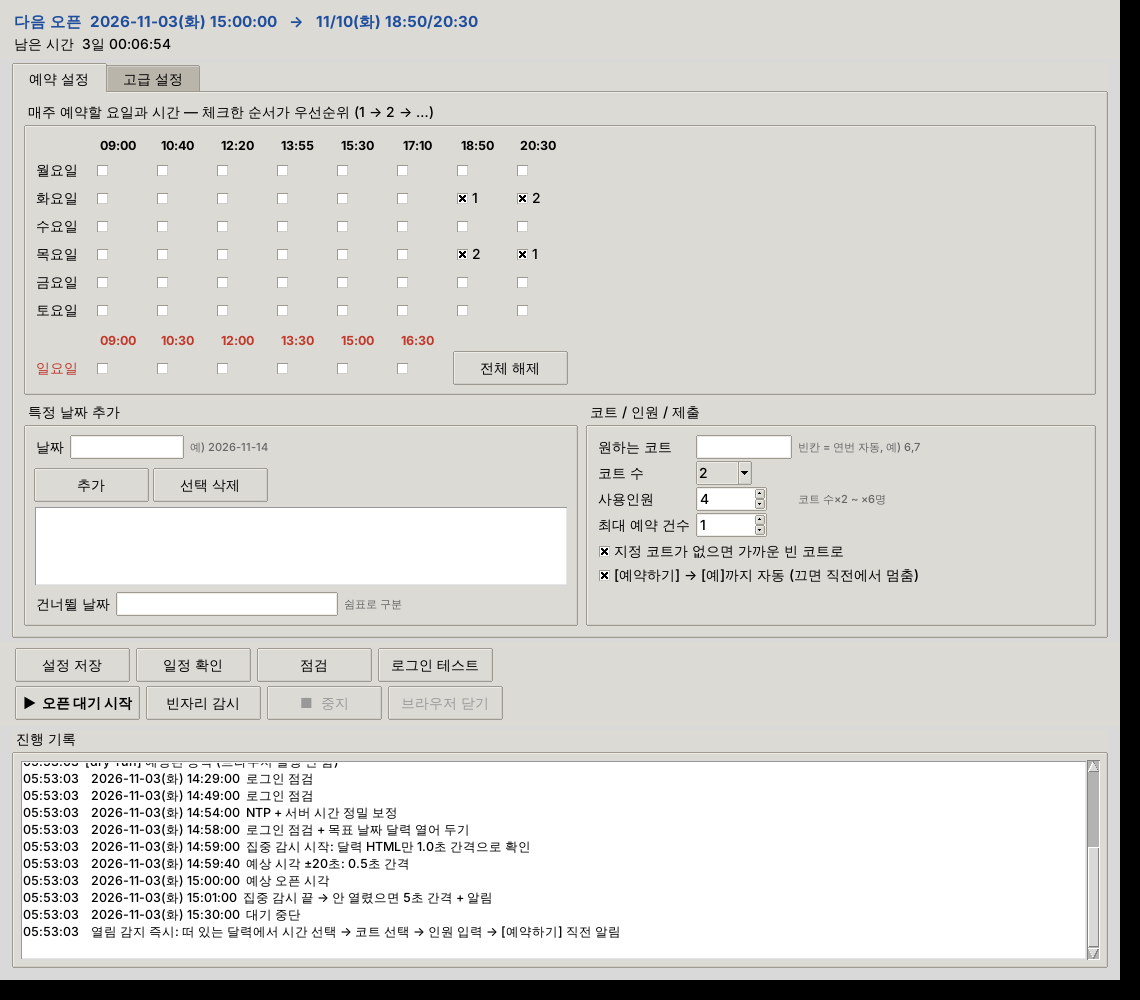
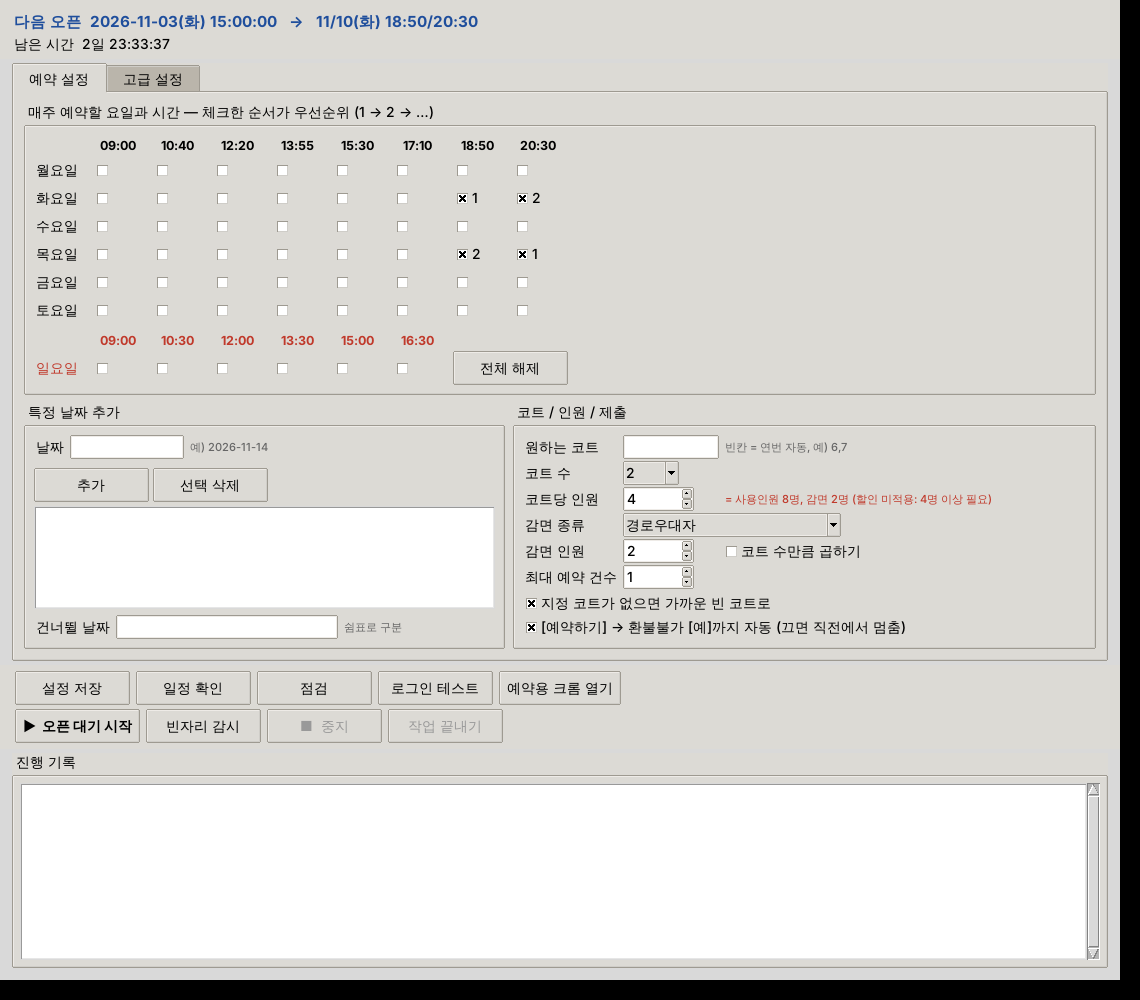
auc_reserve: headcount as courts x people-per-court plus reduction count
- applicant.people_per_court (default 4) sets userCnt from the picked
  court count; reduction {type, count, per_court} fills reduction1..7
- turbo and regular paths both fill them before 예약하기 -> 예
- GUI shows the resulting headcount and whether the site's discount rule
  (reductions >= half of users) will apply

Claude-Session: https://claude.ai/code/session_01Xek6Dm2fkyV4A9ATkhvND8

diff --git a/auc_reserve/gui.py b/auc_reserve/gui.py
@@ -228,21 +228,51 @@ class App:
         ttk.Label(ct, text="코트 수").grid(row=1, column=0, sticky="w", pady=3)
         ttk.Combobox(ct, textvariable=self.court_count, values=["1", "2"], width=4, state="readonly").grid(
             row=1, column=1, sticky="w", padx=4)
-        ttk.Label(ct, text="사용인원").grid(row=2, column=0, sticky="w")
-        ttk.Spinbox(ct, textvariable=self.people, from_=2, to=12, width=5).grid(row=2, column=1, sticky="w",
-                                                                              padx=4)
-        ttk.Label(ct, text="코트 수×2 ~ ×6명", foreground="#666", font=small).grid(row=2, column=2, sticky="w")
-        ttk.Label(ct, text="최대 예약 건수").grid(row=3, column=0, sticky="w", pady=3)
-        ttk.Spinbox(ct, textvariable=self.max_per, from_=1, to=2, width=5).grid(row=3, column=1, sticky="w",
+        ttk.Label(ct, text="코트당 인원").grid(row=2, column=0, sticky="w")
+        ttk.Spinbox(ct, textvariable=self.people, from_=2, to=6, width=5,
+                    command=self.update_people_hint).grid(row=2, column=1, sticky="w", padx=4)
+        self.people_hint = ttk.Label(ct, text="", foreground="#666", font=small)
+        self.people_hint.grid(row=2, column=2, sticky="w")
+        ttk.Label(ct, text="감면 종류").grid(row=3, column=0, sticky="w", pady=3)
+        self.red_type = tk.StringVar(value="감면 없음")
+        ttk.Combobox(ct, textvariable=self.red_type, state="readonly", width=22,
+                     values=["감면 없음"] + [n for _, n in core.REDUCTION_TYPES]).grid(
+            row=3, column=1, columnspan=2, sticky="w", padx=4)
+        ttk.Label(ct, text="감면 인원").grid(row=4, column=0, sticky="w")
+        self.red_count = tk.StringVar(value="2")
+        self.red_per_court = tk.BooleanVar(value=False)
+        ttk.Spinbox(ct, textvariable=self.red_count, from_=0, to=12, width=5,
+                    command=self.update_people_hint).grid(row=4, column=1, sticky="w", padx=4)
+        ttk.Checkbutton(ct, text="코트 수만큼 곱하기", variable=self.red_per_court,
+                        command=self.update_people_hint).grid(row=4, column=2, sticky="w")
+        ttk.Label(ct, text="최대 예약 건수").grid(row=5, column=0, sticky="w", pady=3)
+        ttk.Spinbox(ct, textvariable=self.max_per, from_=1, to=2, width=5).grid(row=5, column=1, sticky="w",
                                                                               padx=4)
         ttk.Checkbutton(ct, text="지정 코트가 없으면 가까운 빈 코트로", variable=self.fallback).grid(
-            row=4, column=0, columnspan=3, sticky="w")
-        ttk.Checkbutton(ct, text="[예약하기] → [예]까지 자동 (끄면 직전에서 멈춤)", variable=self.auto_submit).grid(
-            row=5, column=0, columnspan=3, sticky="w")
+            row=6, column=0, columnspan=3, sticky="w")
+        ttk.Checkbutton(ct, text="[예약하기] → 환불불가 [예]까지 자동 (끄면 직전에서 멈춤)",
+                        variable=self.auto_submit).grid(row=7, column=0, columnspan=3, sticky="w")
+        self.court_count.trace_add("write", lambda *_: self.update_people_hint())
 
         f.columnconfigure(0, weight=1)
         f.columnconfigure(1, weight=1)
         return f
+
+    def update_people_hint(self):
+        """코트 수 × 코트당 인원, 감면 인원으로 실제 입력될 값과 할인 적용 여부를 미리 보여 줌."""
+        if not hasattr(self, "people_hint"):
+            return
+        try:
+            n, ppc = int(self.court_count.get()), int(self.people.get())
+            rc = int(self.red_count.get() or 0) * (n if self.red_per_court.get() else 1)
+        except ValueError:
+            return
+        total = n * ppc
+        msg = f"= 사용인원 {total}명"
+        if self.red_type.get() != "감면 없음" and rc > 0:
+            ok = total / 2 <= rc
+            msg += f", 감면 {min(rc, total)}명 " + ("(할인 적용)" if ok else f"(할인 미적용: {total // 2 + total % 2}명 이상 필요)")
+        self.people_hint.configure(text=msg, foreground="#1e8449" if "미적용" not in msg else "#c0392b")
 
     # ── 특정 날짜: 날짜 입력 → 그 요일 시간표 체크 → 추가 ──
     def on_ex_date(self):
@@ -355,7 +385,17 @@ class App:
         self.skip_var.set(", ".join(c.get("skip_dates", [])))
         self.courts_var.set(",".join(str(x) for x in c.get("courts", [])))
         self.court_count.set(str(c.get("court_count", 2)))
-        self.people.set(str(c.get("applicant", {}).get("사용인원", 4)))
+        a = c.get("applicant", {})
+        if "people_per_court" in a:
+            self.people.set(str(a["people_per_court"]))
+        else:   # 예전 설정(사용인원 총수)을 코트당 인원으로 환산
+            self.people.set(str(max(2, int(a.get("사용인원", 4)) // max(1, int(c.get("court_count", 1))))))
+        red = c.get("reduction", {})
+        names = dict(core.REDUCTION_TYPES)
+        self.red_type.set(names.get(red.get("type", ""), "감면 없음"))
+        self.red_count.set(str(red.get("count", 2)))
+        self.red_per_court.set(bool(red.get("per_court", False)))
+        self.update_people_hint()
         self.fallback.set(bool(c.get("court_fallback_any", True)))
         self.auto_submit.set(bool(c.get("auto_submit", True)))
         self.max_per.set(str(c.get("max_per_week", 1)))
@@ -395,11 +435,17 @@ class App:
             raise ValueError("코트 번호는 1~12 숫자를 쉼표로 구분해 입력하세요. 예) 6,7")
         c["courts"] = [int(x) for x in courts]
         cnt = int(self.court_count.get())
-        people = int(self.people.get())
-        if not cnt * 2 <= people <= cnt * 6:
-            raise ValueError(f"코트 {cnt}면의 사용인원은 {cnt * 2}~{cnt * 6}명입니다.")
+        ppc = int(self.people.get())
+        if not 2 <= ppc <= 6:
+            raise ValueError("코트당 인원은 2~6명입니다.")
         c["court_count"] = cnt
-        c.setdefault("applicant", {})["사용인원"] = people
+        c["applicant"] = {"people_per_court": ppc}
+        codes = {n: k for k, n in core.REDUCTION_TYPES}
+        rtype = codes.get(self.red_type.get(), "")
+        rcount = int(self.red_count.get() or 0)
+        if rtype and rcount <= 0:
+            raise ValueError("감면 인원을 1명 이상 입력하거나 감면 종류를 '감면 없음'으로 두세요.")
+        c["reduction"] = {"type": rtype, "count": rcount, "per_court": self.red_per_court.get()}
         c["court_fallback_any"] = self.fallback.get()
         c["auto_submit"] = self.auto_submit.get()
         c["max_per_week"] = int(self.max_per.get())

diff --git a/auc_reserve/main.py b/auc_reserve/main.py
@@ -171,6 +171,28 @@ def pick_slot(slots, times):
     return None
 
 
+REDUCTION_TYPES = [
+    ("reduction1", "국가유공자"), ("reduction2", "장애인"), ("reduction3", "경로우대자"),
+    ("reduction4", "안양시 다자녀"), ("reduction5", "우수자원봉사자"),
+    ("reduction6", "장기 및 신체조직 기증자"), ("reduction7", "군·경·소(안양거주/재직)"),
+]
+
+
+def form_values(cfg, courts_n):
+    """사용인원과 감면 인원 계산. 반환: (사용인원, {"reduction3": 2} 같은 감면 입력값)."""
+    courts_n = max(1, courts_n)
+    a = cfg.get("applicant", {})
+    ppc = a.get("people_per_court")
+    cnt = courts_n * int(ppc) if ppc else int(a.get("사용인원", courts_n * 2))
+    cnt = max(courts_n * 2, min(cnt, courts_n * 6))          # 사이트 제한: 코트당 2~6명
+    red = cfg.get("reduction", {})
+    rtype, rc = red.get("type", ""), int(red.get("count", 0) or 0)
+    if red.get("per_court"):
+        rc *= courts_n
+    rc = min(rc, cnt)                                        # 감면 인원은 사용인원 이하
+    return cnt, ({rtype: rc} if rtype and rc > 0 else {})
+
+
 def find_chrome(configured=""):
     """설치된 chrome.exe 경로 찾기."""
     cands = [configured, os.environ.get("AUC_BROWSER_PATH", "")]
@@ -674,25 +696,20 @@ class Bot:
 
     # ── 신청서 → 최종 직전 ──
     def fill_applicant(self):
-        for key, sel in S.APPLICANT_FIELDS.items():
-            val = self.cfg.get("applicant", {}).get(key)
-            if val in (None, "") or not self.count(sel):
-                continue
-            el = self.page.locator(sel).first
-            try:
-                tag = el.evaluate("e => e.tagName").lower()
-                if tag == "select":
-                    try:
-                        el.select_option(label=str(val))
-                    except Exception:  # noqa: BLE001
-                        el.select_option(value=str(val))
-                else:
-                    el.fill(str(val))
-                log.info("신청서 입력: %s", key)
-                if S.AFTER_FILL_JS:
-                    self.page.evaluate(S.AFTER_FILL_JS)
-            except Exception as e:  # noqa: BLE001
-                log.warning("신청서 입력 실패(%s): %s", key, e)
+        """사용인원 화면이면 인원(코트 수 × 코트당 인원)과 감면 인원을 입력하고 요금을 다시 계산."""
+        if not self.count(S.PEOPLE_INPUT):
+            return
+        n = len(self.picked_courts) or int(self.cfg.get("court_count", 1))
+        cnt, reds = form_values(self.cfg, n)
+        try:
+            self.page.locator(S.PEOPLE_INPUT).first.fill(str(cnt))
+            for name, v in reds.items():
+                self.page.locator(f'input[name="{name}"]').first.fill(str(v))
+            if S.AFTER_FILL_JS:
+                self.page.evaluate(S.AFTER_FILL_JS)
+            log.info("사용인원 %d명, 감면 %s", cnt, reds or "없음")
+        except Exception as e:  # noqa: BLE001
+            log.warning("인원 입력 실패: %s", e)
 
     def select_courts(self):
         """코트 선택 화면이면 규칙대로 체크. 반환: 선택한 코트 번호 목록 (화면이 아니면 None)."""
@@ -872,13 +889,13 @@ class Bot:
         label += " 코트 " + ",".join(f"{n}번" for n in pick)
         # ③ 인원 입력 (+ [예약하기] → [예])
         submit = bool(self.cfg.get("auto_submit"))
-        cnt = int(self.cfg.get("applicant", {}).get("사용인원", want * 2))
+        cnt, reds = form_values(self.cfg, len(pick))
         self.last_dialog = ""
         url = self.page.url
-        r = self._turbo_eval(S.TURBO_SUBMIT_JS, [cnt, submit, S.CONFIRM_EXPECT_TEXTS])
+        r = self._turbo_eval(S.TURBO_SUBMIT_JS, [cnt, submit, S.CONFIRM_EXPECT_TEXTS, reds])
         t3 = time.monotonic()
-        log.info("터보 소요: 시간선택 %.0fms / 코트 %.0fms / 제출 %.0fms (빈 코트 %s → %s)",
-                 (t1 - t0) * 1000, (t2 - t1) * 1000, (t3 - t2) * 1000, free, pick)
+        log.info("터보 소요: 시간선택 %.0fms / 코트 %.0fms / 제출 %.0fms (빈 코트 %s → %s, 인원 %d, 감면 %s)",
+                 (t1 - t0) * 1000, (t2 - t1) * 1000, (t3 - t2) * 1000, free, pick, cnt, reds or "없음")
         if not submit:
             if r == "filled":
                 self.n.alert(f"{label}, [예약하기] → [예]를 눌러주세요")

diff --git a/auc_reserve/site_selectors.py b/auc_reserve/site_selectors.py
@@ -51,10 +51,8 @@ SELECT_CONFIRM_TEXTS = ["등록하시겠습니까"]
 COURT_CHECKBOX = 'input[type="checkbox"][name="facilityNo"]'   # value = 코트 번호 1~12
 COURT_MAX = 2                                                   # 사이트 제한: 최대 2면
 
-# 2) 사용인원 화면: config.json applicant의 키 → 입력칸
-APPLICANT_FIELDS = {
-    "사용인원": "#userCnt",      # 코트 수 × 2 이상, × 6 이하
-}
+# 2) 사용인원 화면: 사용인원 #userCnt (코트 수 × 2 ~ × 6), 감면 인원 input[name=reduction1..7]
+PEOPLE_INPUT = "#userCnt"
 AFTER_FILL_JS = "typeof changePrice === 'function' && changePrice()"   # 요금 다시 계산
 AGREE_CHECKBOXES = 'input[type="checkbox"][name*="agree" i]'           # 이 사이트엔 없음
 
@@ -117,10 +115,15 @@ TURBO_COURT_JS = """([nos, nextText]) => {
   return 'ok';
 }"""
 # ③ 인원 입력 → (submit이면) [예약하기] → '환불 불가에 동의…' [예]
-TURBO_SUBMIT_JS = """async ([cnt, submit, expect]) => {
+TURBO_SUBMIT_JS = """async ([cnt, submit, expect, reds]) => {
   const u = document.querySelector('#userCnt');
   if (!u) return 'no-usercnt';
   u.value = String(cnt);
+  for (const [name, v] of Object.entries(reds || {})) {
+    const r = document.querySelector('input[name="' + name + '"]');
+    if (!r) return 'no-' + name;
+    r.value = String(v);
+  }
   if (typeof changePrice === 'function') changePrice();
   if (!submit) return 'filled';
   const btn = [...document.querySelectorAll('a.btn4')].find(a => a.textContent.includes('""" + SUBMIT_BTN_TEXT + """'));

diff --git a/auc_reserve/tests/test_courts.py b/auc_reserve/tests/test_courts.py
@@ -52,3 +52,28 @@ class PreferredMode(unittest.TestCase):
 
 if __name__ == "__main__":
     unittest.main()
+
+
+from main import form_values  # noqa: E402
+
+
+class FormValues(unittest.TestCase):
+    def test_people_per_court(self):
+        cfg = {"applicant": {"people_per_court": 4}, "reduction": {"type": "reduction3", "count": 2}}
+        self.assertEqual(form_values(cfg, 1), (4, {"reduction3": 2}))
+        self.assertEqual(form_values(cfg, 2), (8, {"reduction3": 2}))
+
+    def test_reduction_per_court(self):
+        cfg = {"applicant": {"people_per_court": 4},
+               "reduction": {"type": "reduction4", "count": 2, "per_court": True}}
+        self.assertEqual(form_values(cfg, 2), (8, {"reduction4": 4}))
+
+    def test_no_reduction_type(self):
+        cfg = {"applicant": {"people_per_court": 4}, "reduction": {"type": "", "count": 2}}
+        self.assertEqual(form_values(cfg, 1), (4, {}))
+
+    def test_limits(self):
+        self.assertEqual(form_values({"applicant": {"people_per_court": 9}}, 1)[0], 6)
+        self.assertEqual(form_values({"applicant": {"사용인원": 4}}, 2)[0], 4)
+        cfg = {"applicant": {"people_per_court": 2}, "reduction": {"type": "reduction1", "count": 5}}
+        self.assertEqual(form_values(cfg, 1), (2, {"reduction1": 2}))

diff --git a/auc_reserve/README.md b/auc_reserve/README.md
@@ -87,7 +87,7 @@ copy .env.example .env
 |---|---|---|
 | 1 | 달력에서 `가` 시간 클릭 → "…등록하시겠습니까?" 확인창 [예] | 스크립트 |
 | 2 | 코트 선택 (`reservationStep2`, 1~12번, 최대 2면) → [다음] | 스크립트 (`courts` 우선순위) |
-| 3 | 사용인원 입력 (`reservationStep2_2`) | 스크립트 (`applicant.사용인원`) |
+| 3 | 사용인원(코트 수 × 코트당 인원) + 감면 인원 입력 (`reservationStep2_2`) | 스크립트 |
 | 4 | **[예약하기] → 확인창 [예]** | `auto_submit: true`면 스크립트, 아니면 사용자 |
 | 5 | 결제 화면 (`reservationStep3`): **여기서 예약번호가 생기며 자리가 잡힘** → 스크립트는 알림만 보내고 끝 | - |
 | 6 | 약관 동의 → [결제하기] → 카드 결제 | **사용자** |
@@ -97,6 +97,13 @@ copy .env.example .env
 
 결제 화면(5단계)과, 이미 예약된 코트가 코트 선택 화면에 어떻게 표시되는지는 아직 확인하지 못했습니다.
 처음 실제로 예약할 때 `--inspect`로 저장해 두면 더 정확히 맞출 수 있습니다.
+
+## 감면 할인 규칙 (사이트 계산 방식)
+
+감면 할인은 **감면 인원이 사용인원의 절반 이상**일 때만 적용됩니다 (50%, 군·경·소만이면 10%).
+예) 1면 4명 + 감면 2명 → 할인 / 2면 8명 + 감면 2명 → 미적용 (4명 필요 → "코트 수만큼 곱하기" 체크).
+GUI의 코트당 인원 옆에 실제 입력될 인원과 할인 적용 여부가 표시됩니다.
+감면은 실제 대상자일 때만 적용하세요 (현장에서 확인할 수 있습니다).
 
 ## 코트 선택 규칙
 
@@ -138,7 +145,8 @@ copy .env.example .env
 | `courts` | 원하는 코트 번호. `[]`이면 자동 (아래 규칙) |
 | `court_count` | 한 번에 잡을 코트 수 (1 또는 2) |
 | `court_fallback_any` | 지정 코트가 예약돼 있으면 가까운 빈 코트로 대신 채울지 (`true`/`false`) |
-| `applicant` | `사용인원`: 코트 수 × 2 이상, × 6 이하 (1면이면 2~6명) |
+| `applicant.people_per_court` | 코트당 인원 (기본 4). 사용인원 = 고른 코트 수 × 이 값 (코트당 2~6명) |
+| `reduction` | 감면: `type`(`reduction1` 국가유공자, `2` 장애인, `3` 경로우대자, `4` 안양시 다자녀, `5` 우수자원봉사자, `6` 장기·신체조직 기증자, `7` 군·경·소), `count` 인원, `per_court` 코트 수만큼 곱하기 |
 | `auto_submit` | `true`: [예약하기] → 확인창 [예]까지 자동 (결제는 직접). `false`: [예약하기] 직전에서 멈추고 알림 |
 | `auto_agree_terms` | 기본 `false`. `true`면 결제 화면의 필수 약관 3개만 자동 체크 ([결제하기]는 항상 직접) |
 | `retry_on_conflict` | 다른 사람이 먼저 예약해 실패하면 남은 시간/코트로 다시 시도할 횟수 (기본 1) |
